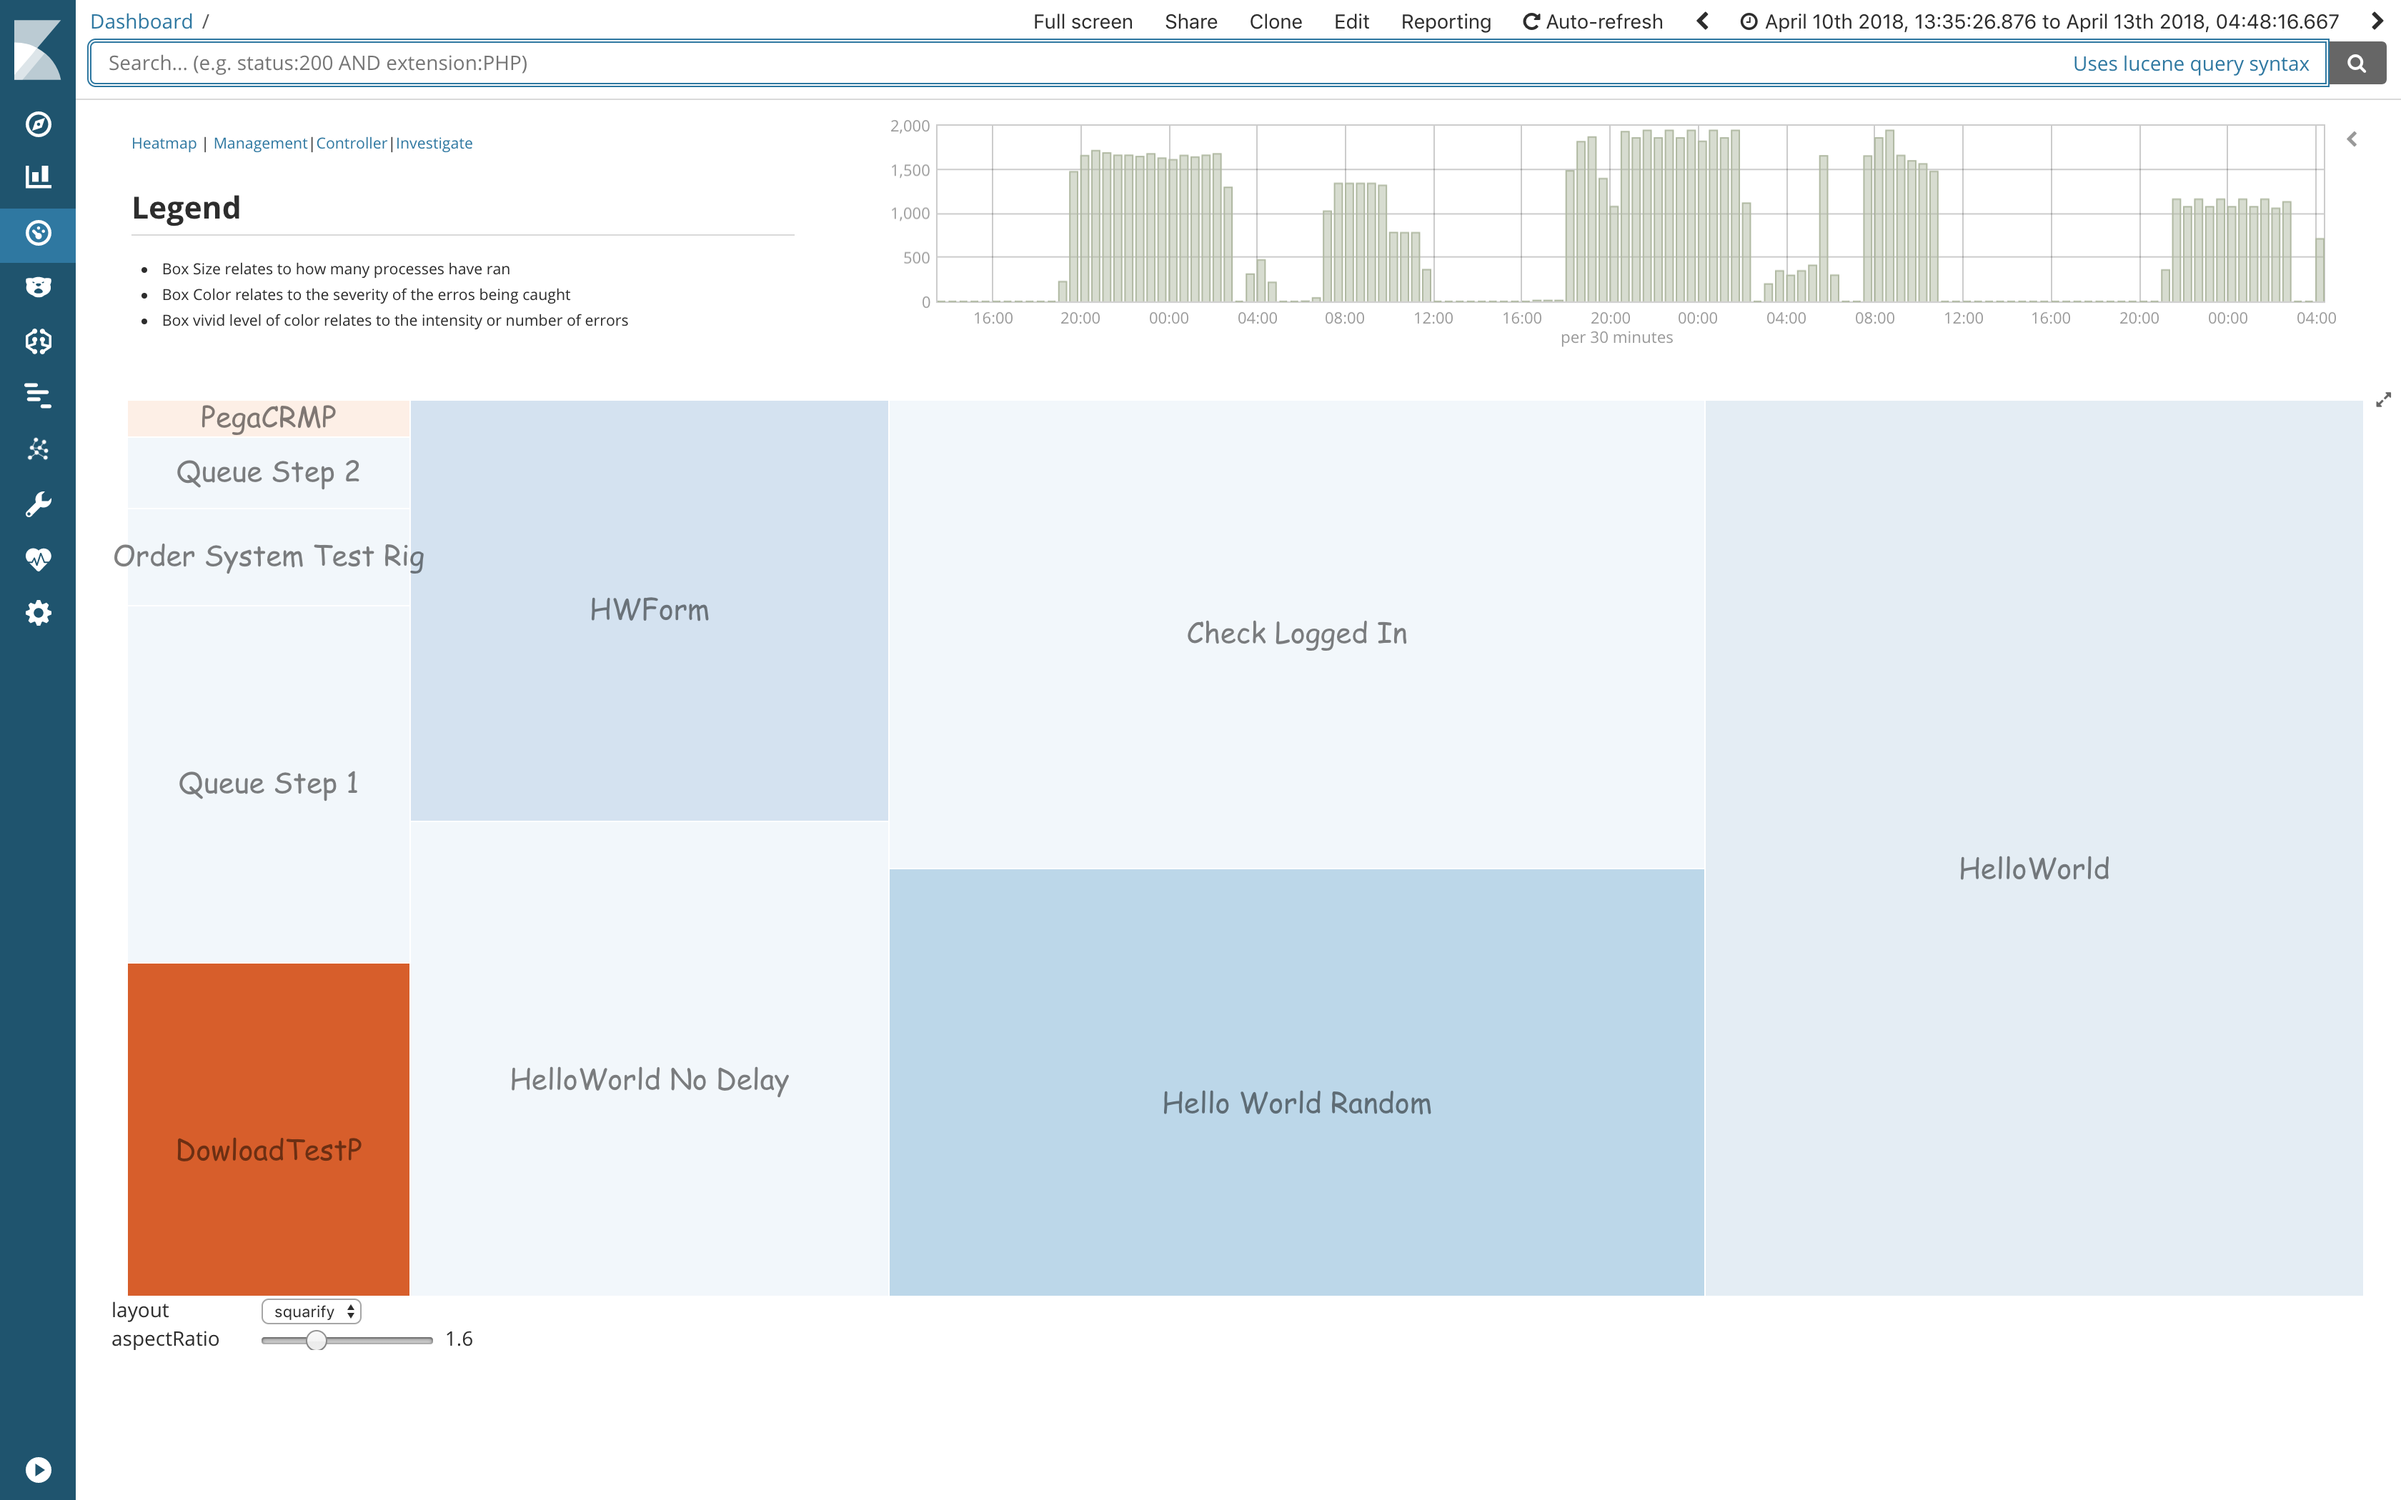
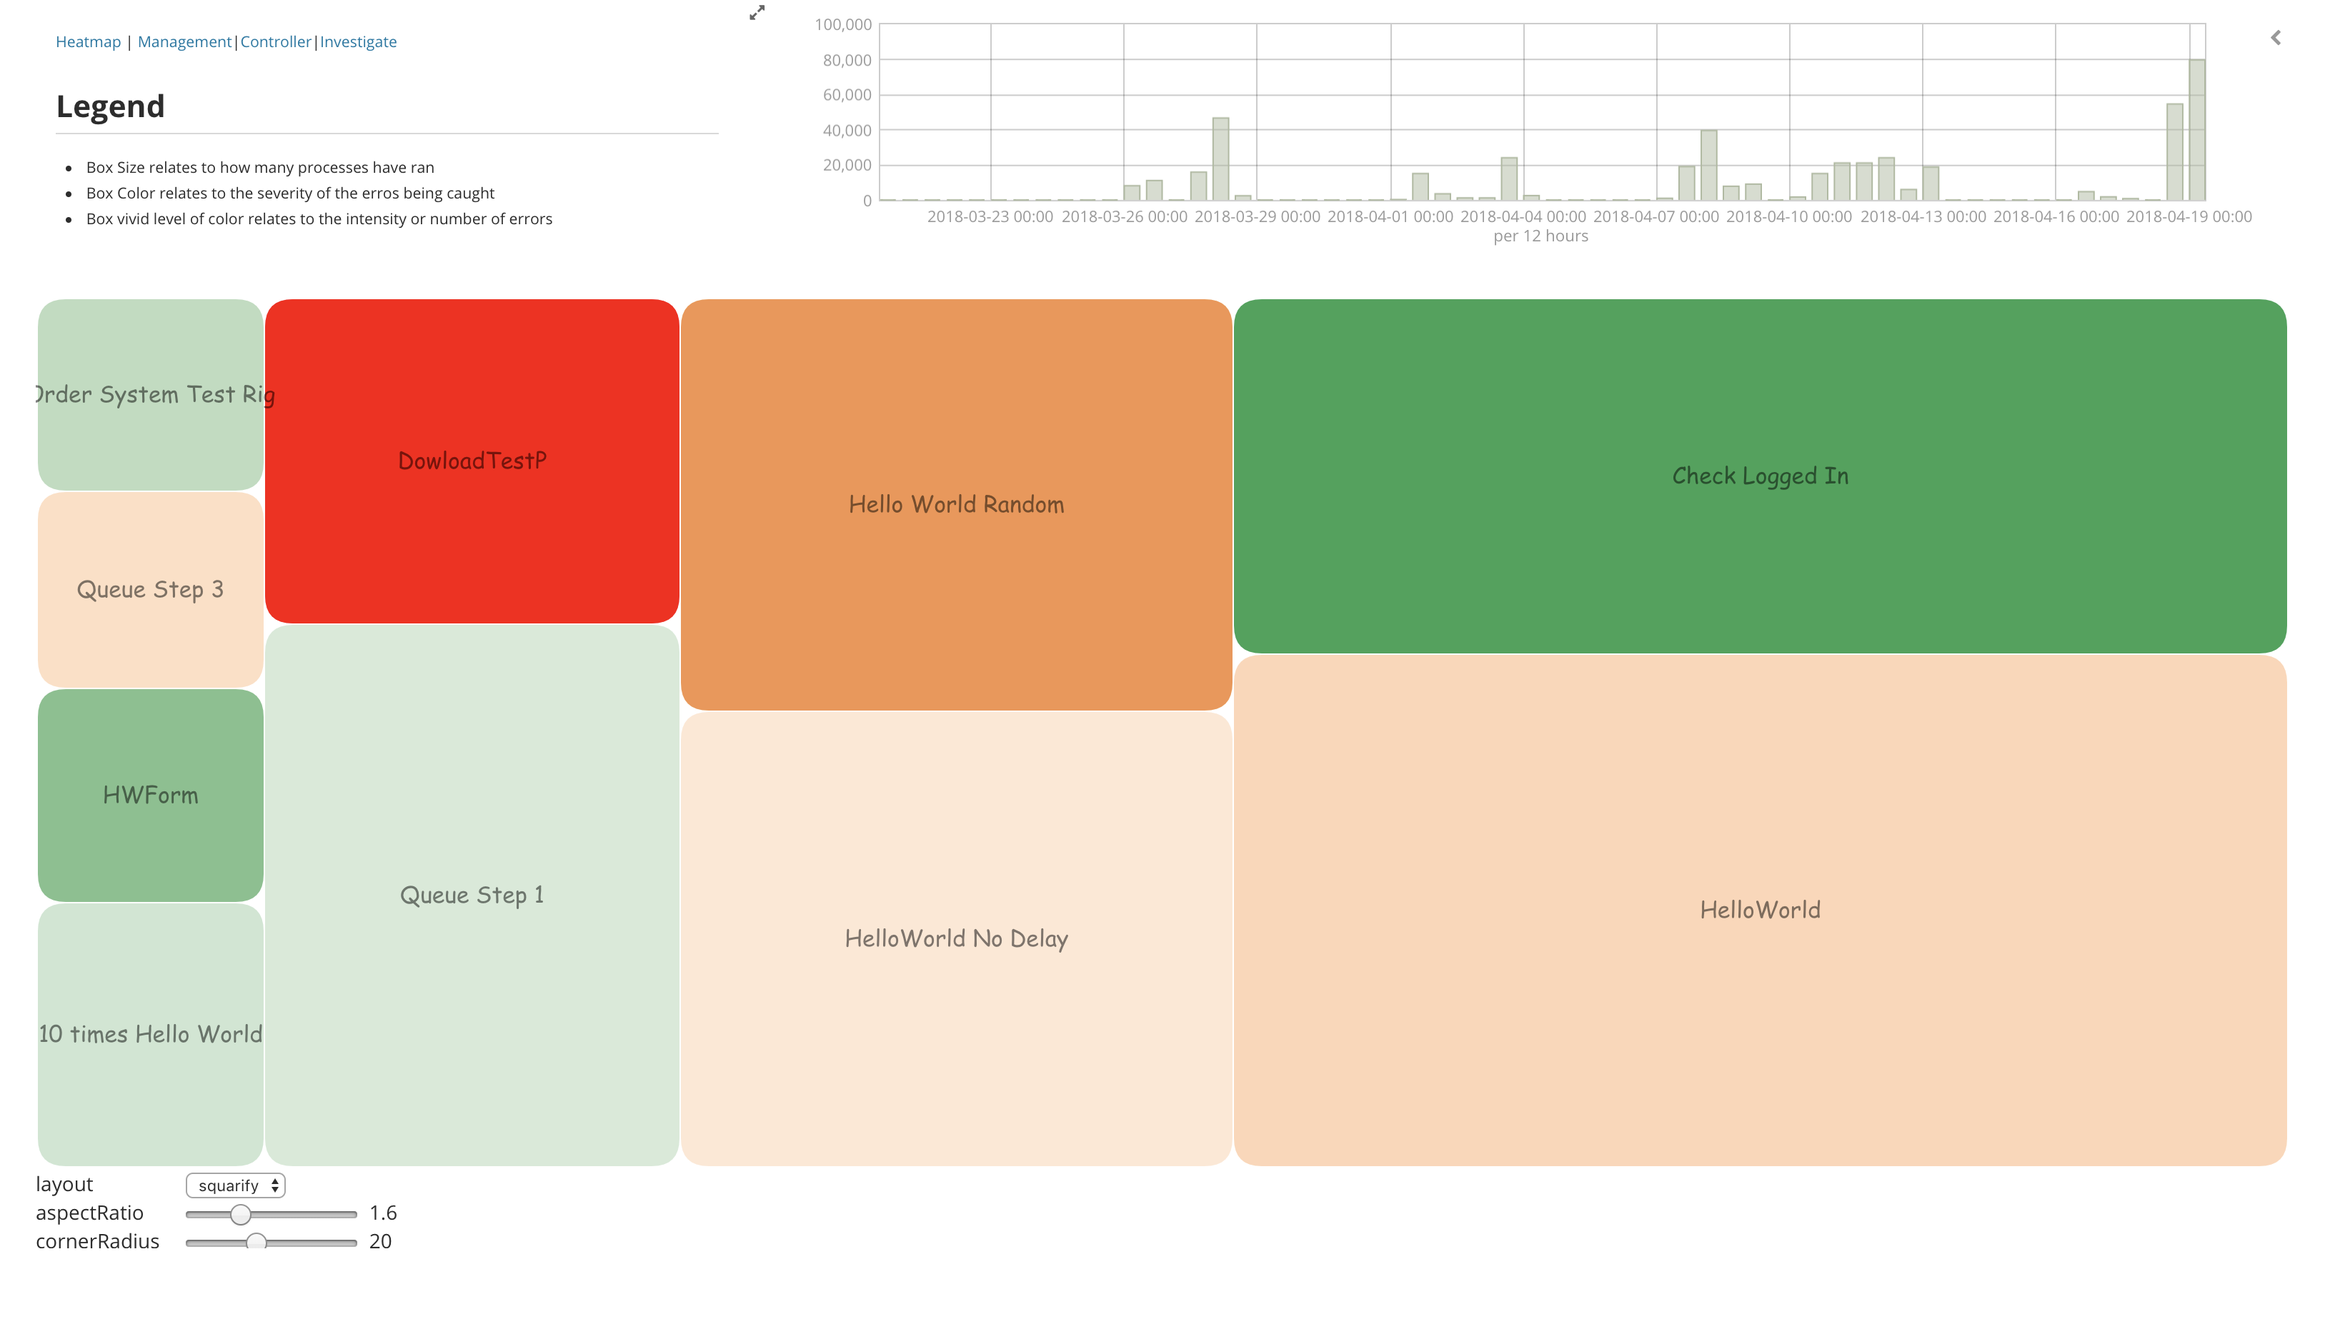
upd

diff --git a/Samples/blueprism/README.md b/Samples/blueprism/README.md
@@ -132,9 +132,26 @@ Vega Visualization looks like
 ```
 {
   "$schema": "https://vega.github.io/schema/vega/v3.json",
+  "padding": {"bottom": 50},
   "signals": [
-    {"name": "layout", "value": "squarify", "bind": {"input": "select", "options": ["squarify", "binary", "slicedice"]}},
-    {"name": "aspectRatio", "value": 1.6, "bind": {"input": "range", "min": 0.2, "max": 5, "step": 0.1}}
+    {
+      "name": "layout",
+      "value": "squarify",
+      "bind": {
+        "input": "select",
+        "options": ["squarify", "binary", "slicedice"]
+      }
+    },
+    {
+      "name": "aspectRatio",
+      "value": 1.6,
+      "bind": {"input": "range", "min": 0.2, "max": 5, "step": 0.1}
+    },
+    {
+      "name": "cornerRadius",
+      "value": 20,
+      "bind": {"input": "range", "min": 0, "max": 50, "step": 1}
+    }
   ],
   "data": [
     {
@@ -151,13 +168,36 @@ Vega Visualization looks like
               "aggs": {
                 "seqnum": {
                   "filter": {"term": {"seqnum": 1}},
-                  "aggregations": {"the_count": {"value_count": {"field": "seqnum"}}}
+                  "aggregations": {
+                    "the_count": {"value_count": {"field": "seqnum"}}
+                  }
                 },
                 "error": {
                   "filter": {
-                    "query_string": {"analyze_wildcard": true, "default_field": "*", "query": "result:\"?ERROR*\""}
+                    "query_string": {
+                      "analyze_wildcard": true,
+                      "default_field": "*",
+                      "query": "result:\"?ERROR*\""
+                    }
                   },
-                  "aggregations": {"the_count": {"value_count": {"field": "result.keyword"}}}
+                  "aggs": {
+                    "Process_On_Error_count": {
+                      "cardinality": {"field": "sessionnumber"}
+                    }
+                  }
+                },
+                "Terminated": {
+                  "filter": {
+                    "query_string": {
+                      "fields": ["status"],
+                      "query": "status:Terminated"
+                    }
+                  },
+                  "aggs": {
+                    "Terminated_count": {
+                      "cardinality": {"field": "sessionnumber"}
+                    }
+                  }
                 }
               }
             }
@@ -168,8 +208,17 @@ Vega Visualization looks like
       "transform": [
         {"type": "formula", "as": "parent", "expr": "1"},
         {"type": "formula", "as": "depth", "expr": "2"},
-        {"type": "formula", "as": "size", "expr": "datum.doc_count"},
-        {"type": "formula", "as": "severity", "expr": "datum.error.doc_count/datum.doc_count"},
+        {"type": "formula", "as": "size", "expr": "datum.seqnum.doc_count"},
+        {
+          "type": "formula",
+          "as": "severity",
+          "expr": "min(19*(datum.Terminated.Terminated_count.value/datum.seqnum.doc_count)+5*(datum.error.Process_On_Error_count.value/datum.seqnum.doc_count),19)"
+        },
+        {
+          "type": "formula",
+          "as": "density",
+          "expr": "min((datum.Terminated.Terminated_count.value/datum.seqnum.doc_count)+(datum.error.doc_count/datum.seqnum.doc_count),20)"
+        },
         {"type": "formula", "as": "name", "expr": "datum.key"},
         {
           "type": "impute",
@@ -191,38 +240,58 @@ Vega Visualization looks like
         }
       ]
     },
-    {"name": "nodes", "source": "tree", "transform": [{"type": "filter", "expr": "datum.children"}]},
-    {"name": "leaves", "source": "tree", "transform": [{"type": "filter", "expr": "!datum.children"}]}
+    {
+      "name": "nodes",
+      "source": "tree",
+      "transform": [{"type": "filter", "expr": "datum.children"}]
+    },
+    {
+      "name": "leaves",
+      "source": "tree",
+      "transform": [{"type": "filter", "expr": "!datum.children"}]
+    }
   ],
   "scales": [
     {
       "name": "color",
-      "type": "ordinal",
+      "type": "sequential",
+      "domain": [0, 19],
+      "clamp": true,
       "range": [
-        "#3182bd",
-        "#6baed6",
-        "#9ecae1",
-        "#c6dbef",
-        "#e6550d",
-        "#fd8d3c",
-        "#fdae6b",
-        "#fdd0a2",
         "#31a354",
-        "#74c476",
-        "#a1d99b",
-        "#c7e9c0",
-        "#756bb1",
-        "#9e9ac8",
-        "#bcbddc",
-        "#dadaeb",
-        "#636363",
-        "#969696",
-        "#bdbdbd",
-        "#d9d9d9"
+        "#fee4cd",
+        "#fdc99b",
+        "#fdae6b",
+        "#fca04f",
+        "#fc851d",
+        "#e26b03",
+        "#b05303",
+        "#7e3c02",
+        "#fdae6b",
+        "#ffcccc",
+        "#ffcccc",
+        "#ff9999",
+        "#ff9999",
+        "#ff6666",
+        "#ff6666",
+        "#ff3333",
+        "#ff3333",
+        "#ff0000",
+        "#ff0000"
       ]
     },
-    {"name": "size", "type": "ordinal", "domain": [0, 1, 2, 3], "range": [20, 20, 20, 14]},
-    {"name": "opacity", "type": "ordinal", "domain": [0, 1, 2, 3], "range": [0.15, 0.5, 0.8, 1]}
+    {
+      "name": "size",
+      "type": "ordinal",
+      "domain": [0, 1, 2, 3],
+      "range": [14, 16, 20, 28]
+    },
+    {
+      "name": "opacity",
+      "type": "ordinal",
+      "domain": [0, 1, 2, 3],
+      "range": [0.3, 0.5, 0.8, 1]
+    }
   ],
   "marks": [
     {
@@ -232,22 +301,29 @@ Vega Visualization looks like
       "encode": {
         "enter": {
           "fill": {"scale": "color", "field": "severity"},
-          "fillOpacity": {"scale": "opacity", "field": "error.doc_count"}
+          "fillOpacity": {"scale": "opacity", "field": "density"}
         },
-        "update": {"x": {"field": "x0"}, "y": {"field": "y0"}, "x2": {"field": "x1"}, "y2": {"field": "y1"}}
+        "update": {
+          "x": {"field": "x0"},
+          "y": {"field": "y0"},
+          "x2": {"field": "x1"},
+          "y2": {"field": "y1"},
+          "cornerRadius": {"signal": "cornerRadius"}
+        }
       }
     },
     {
       "type": "rect",
       "from": {"data": "leaves"},
       "encode": {
-        "enter": {"stroke": {"value": "#fff"}},
+        "enter": {"stroke": {"value": "#fff"}, "cornerRadius": 10},
         "update": {
           "x": {"field": "x0"},
           "y": {"field": "y0"},
           "x2": {"field": "x1"},
           "y2": {"field": "y1"},
-          "fill": {"value": "transparent"}
+          "fill": {"value": "transparent"},
+          "cornerRadius": {"signal": "cornerRadius"}
         },
         "hover": {"fill": {"value": "green"}}
       }
@@ -266,7 +342,10 @@ Vega Visualization looks like
           "fontSize": {"scale": "size", "field": "depth"},
           "fillOpacity": {"scale": "opacity", "field": "depth"}
         },
-        "update": {"x": {"signal": "0.5 * (datum.x0 + datum.x1)"}, "y": {"signal": "0.5 * (datum.y0 + datum.y1)"}}
+        "update": {
+          "x": {"signal": "0.5 * (datum.x0 + datum.x1)"},
+          "y": {"signal": "0.5 * (datum.y0 + datum.y1)"}
+        }
       }
     }
   ]
